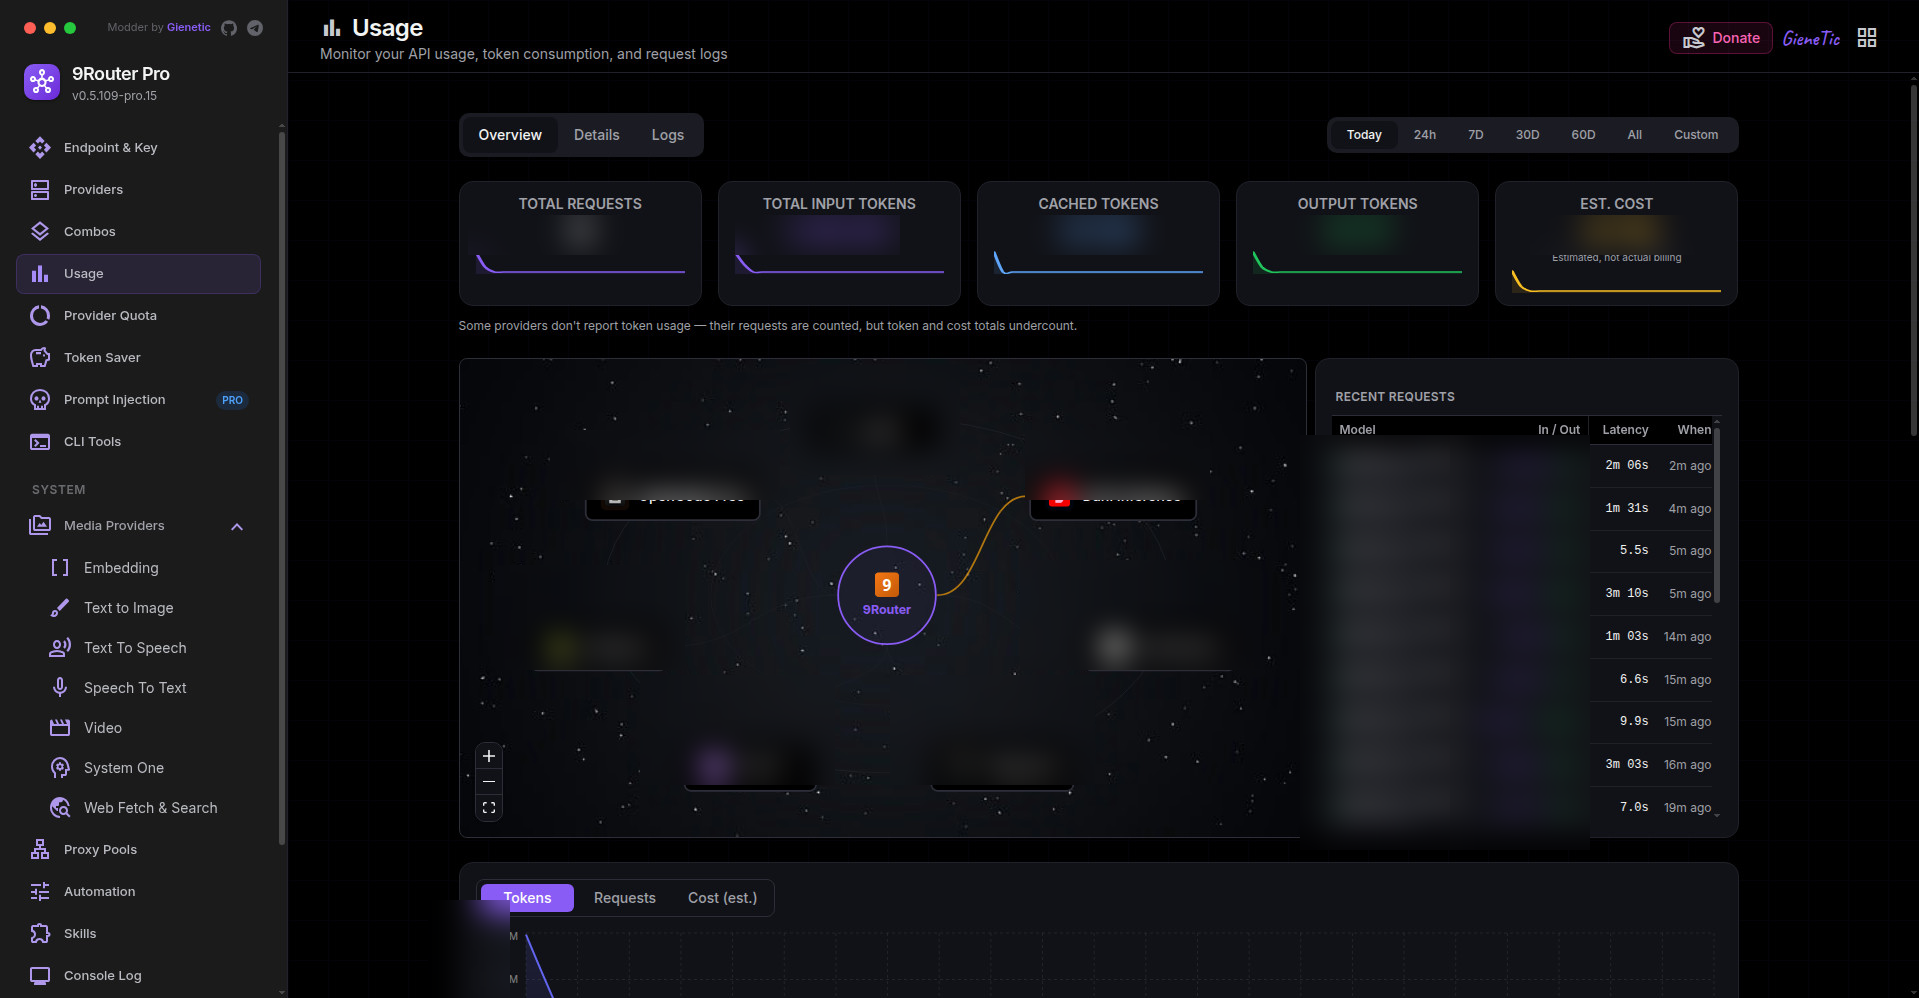
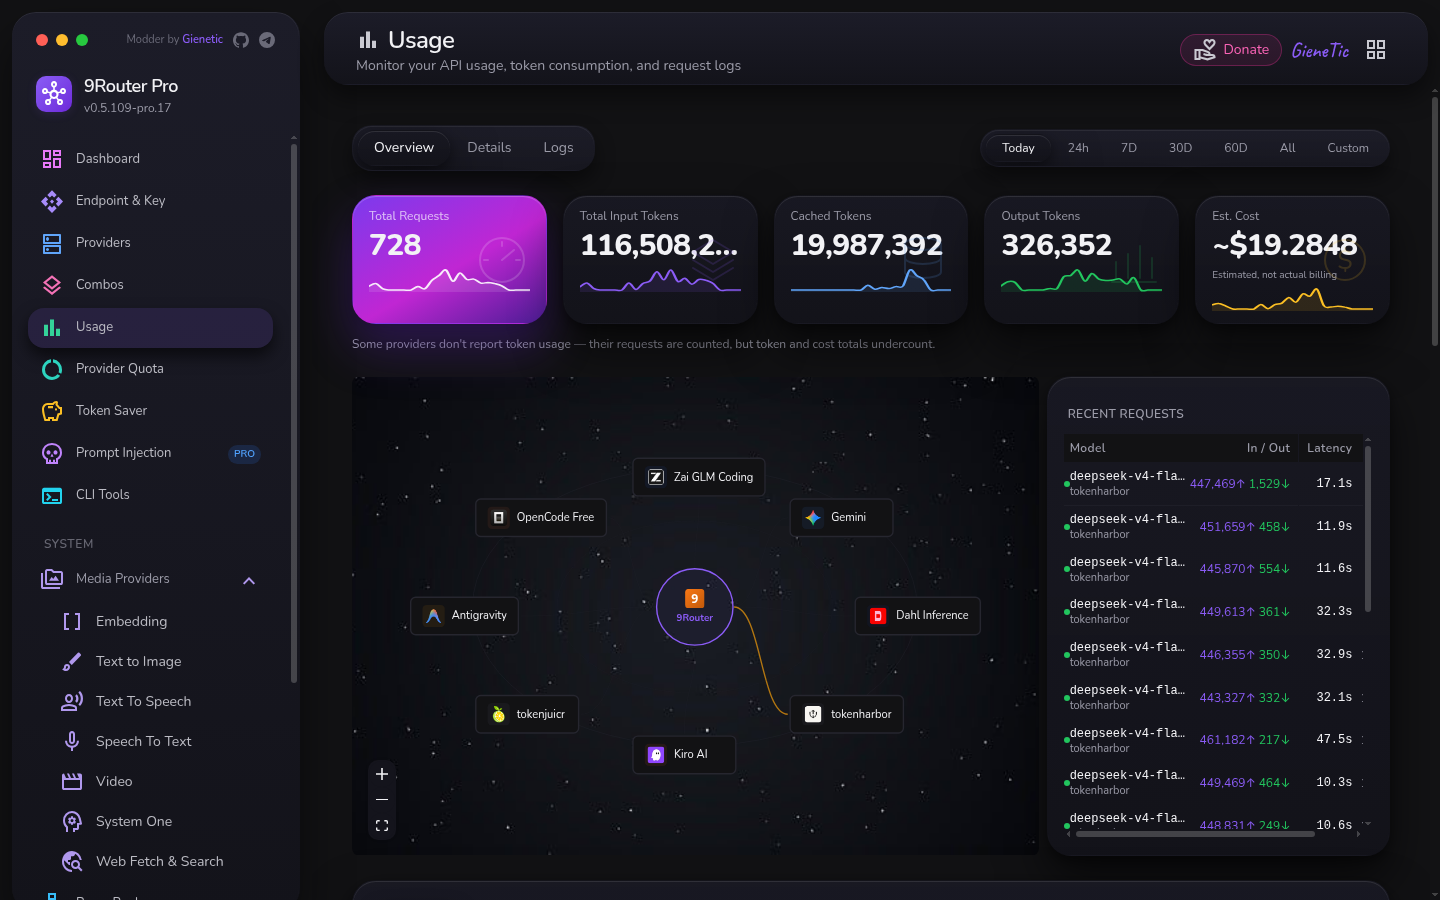
docs: README for pro.18 — new theme, monitoring dashboard, built-in templates, fresh screenshots (README-only, code unchanged)

diff --git a/README.md b/README.md
@@ -1,11 +1,11 @@
 <div align="center">
-  <img src="./images/pro-prompt-injection.png" alt="9Router Pro — Prompt Injection" width="800"/>
+  <img src="./images/pro-dashboard.png" alt="9Router Pro — Monitoring Dashboard" width="800"/>
 
-  # 9Router Pro
+  # 9Router Pro — by Gienetic
 
   **A Pro edition of 9Router with Prompt Injection: one injection per target — global, per API key, per model — as a system prompt or a scripted chat.**
 
-  [GitHub](https://github.com/giienew) · [Telegram](https://t.me/gienetic)
+  By **Gienetic** — [GitHub](https://github.com/giienew) · [Telegram](https://t.me/gienetic)
 
   [![Stars](https://img.shields.io/github/stars/giienew/9router-pro?style=social)](https://github.com/giienew/9router-pro/stargazers)
   [![Forks](https://img.shields.io/github/forks/giienew/9router-pro?style=social)](https://github.com/giienew/9router-pro/network/members)
@@ -34,7 +34,11 @@
 - **Console Log in plain words** — a live request log that reads like sentences (MatLog-style rows), not stack traces.
 - **Backup & restore** — full backups or selective per-section ones (providers, combos, keys, settings) straight from the dashboard.
 - **Fully localized dashboard** — 34 languages, and the Indonesian translation is **100% complete** (1,827 strings — every label, description and help popover).
-- **Themes** — a flat **Dark Pro** theme by default, 7 accent presets plus a free **custom color picker**, switchable in one click from the header.
+- **A dashboard made to be shown off** — a single dark neumorphism theme: floating glass cards, pill buttons and inputs, gradient toggles, hero-style numbers, spectrum charts, an opaque navbar, and Nunito throughout. No preset switching, no light mode — one look, done right on phone and laptop.
+- **Custom colours, dark to light** — pick any hue, then pick its shade: 6 dark-to-light dots per hue, with an exact-colour dot and hex readout. Your accent, your brightness.
+- **Monitoring Dashboard** — a new first sidebar item: VPS specs, fastest and most-used providers, most-used API key, totals for providers, proxies, combos and keys, plus usage charts — all live, nothing fabricated.
+- **Built-in prompt templates** — a library of ready templates, titled by model and marked **Bawaan** (built-in). Read-only: copy or apply one to your own target yourself. Nothing is auto-applied or bound to any model.
+- **Template carousel** — the template library swipes like cards on phone (arrows + dots on laptop), and the Templates header carries an icon-only reference button to an external prompt collection.
 - **Lightweight by design** — no extra services, no database server: one Next.js app and a single SQLite file, the same footprint class as upstream.
 - **Update notifications** that follow *this* repo's releases, and a **Donate** button wired to this project's own channels.
 
@@ -79,13 +83,8 @@ A key that crosses a limit gets **HTTP 429 with a `Retry-After` header** and a m
 ## 📸 Screenshots
 
 <p align="center">
-  <img src="./images/pro-prompt-injection-chat.png" alt="Chat script injection editor" width="800"/>
-  <br/><em>Chat script mode — scripted user/bot turns injected as a conversation that already happened.</em>
-</p>
-
-<p align="center">
-  <img src="./images/pro-providers.png" alt="Providers dashboard" width="800"/>
-  <br/><em>Providers — custom providers, an all-connections shelf, and a Test All in every section. Dark Pro theme, orange accent.</em>
+  <img src="./images/pro-dashboard.png" alt="Monitoring Dashboard" width="800"/>
+  <br/><em>Monitoring Dashboard — spectrum usage cards, VPS specs, fastest and most-used providers, most-used API key, and totals.</em>
 </p>
 
 <p align="center">
@@ -94,8 +93,18 @@ A key that crosses a limit gets **HTTP 429 with a `Retry-After` header** and a m
 </p>
 
 <p align="center">
-  <img src="./images/pro-opencode-picker.png" alt="Per-provider proxy rotation picker" width="800"/>
-  <br/><em>Per-provider proxy rotation — pin a provider to a hand-picked subset of your pools; the picker folds away when you're done.</em>
+  <img src="./images/pro-providers.png" alt="Providers dashboard" width="800"/>
+  <br/><em>Providers — custom providers, an all-connections shelf, and a Test All in every section.</em>
+</p>
+
+<p align="center">
+  <img src="./images/pro-prompt-injection.png" alt="Prompt Injection templates" width="800"/>
+  <br/><em>Prompt Injection — built-in templates (Bawaan) as a swipeable carousel; apply one to your own target yourself.</em>
+</p>
+
+<p align="center">
+  <img src="./images/pro-chat-script.png" alt="Chat script injection editor" width="800"/>
+  <br/><em>Chat script mode — scripted user/bot turns injected as a conversation that already happened.</em>
 </p>
 
 ## 💎 Why Pro?
@@ -104,7 +113,7 @@ The original 9Router is a great router — Pro is what it becomes when you actua
 
 - **Prompt Injection** — the original has *no* custom system prompts at all. Pro gives every target one injection — **global**, **per API key**, and **per model** — each either a system prompt (prepend or append) or a scripted chat primed as fake history, injected wire-aware for OpenAI / Claude / Gemini / Responses bodies.
 - **Per-key token quotas** — upstream *removed* this feature. Pro brings it back: a token budget per API key (24h / 7d / 30d) with live usage and 429 enforcement.
-- **An identity** — a flat Dark Pro theme, 7 accent presets plus a free custom-color picker, and Pro branding throughout.
+- **An identity** — a dark neumorphism dashboard with floating glass cards, pill everything, spectrum charts and a custom colour picker (any hue, dark to light), plus Pro branding throughout.
 - **Fleet care built in** — Balanced health-tiered fallback, the Anti-Flaky Guard, server-side proxy-pool health checks and per-provider rotation subsets keep a big key fleet healthy without babysitting.
 - **An optimized hot path** — injection resolution is snapshot-cached and system prompts run as a single grouped pass per position: identical output, less work per request.
 - **Updates that follow Pro** — release checks and the install command point at this repo's GitHub releases, not upstream's npm package.
@@ -129,7 +138,7 @@ Pro is designed to sit in front of an AI agent (Hermes-style setups) as its sing
 | Custom system prompts | ❌ (fixed Caveman/Ponytail only) | per-model fields | ✅ Prompt Injection: global + per-user + per-model, prompt or chat script |
 | Per-API-key system prompt | ❌ | ❌ | ✅ |
 | Prepend/append control | ❌ | ❌ | ✅ |
-| Dashboard accents | coral only | varies | ✅ 7 accents |
+| Dashboard accents | coral only | varies | ✅ custom colours (any hue, dark to light) |
 | Per-key token quotas | ❌ (removed upstream) | ❌ | ✅ 24h / 7d / 30d budgets |
 | Per-key rate limits (RPM/TPM/RPD/concurrency) | ❌ | ❌ | ✅ per key, 429 + Retry-After |
 | Test All per provider section (incl. custom) | ❌ | ❌ | ✅ |
